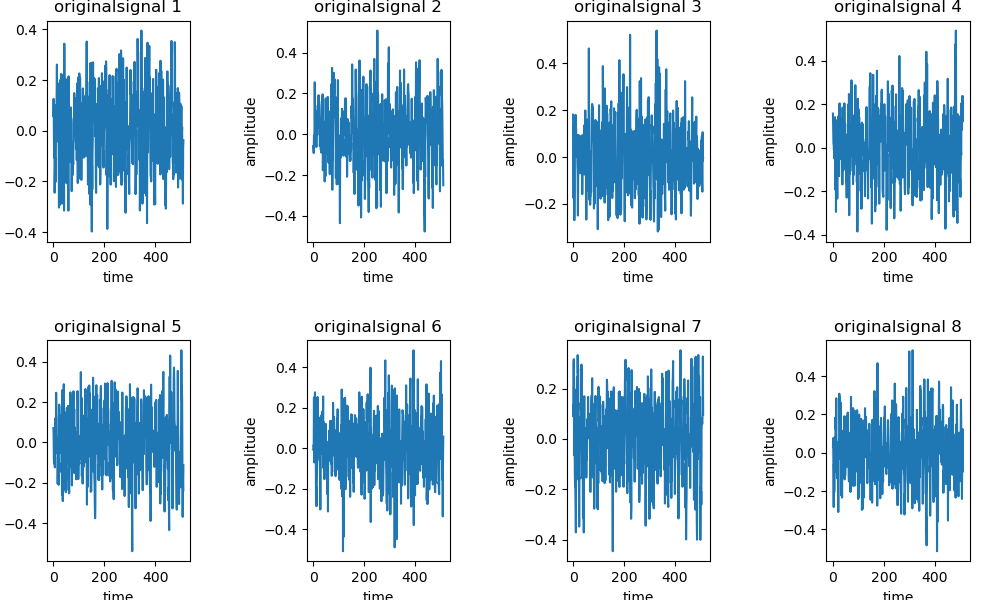
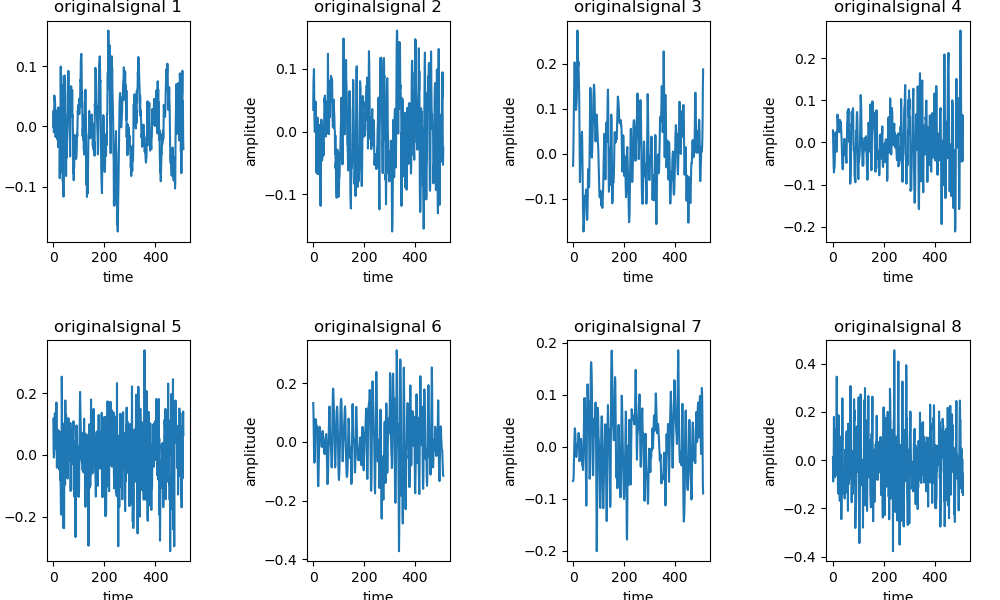
调整数据集,重新训练

diff --git a/train.py b/train.py
@@ -22,7 +22,7 @@ from utils.dataset import get_shape, get_signal_dataloader, tensor2signal, creat
 from utils.early_stop import EarlyStopping
 from utils.fft_plot import FFTPlot
 
-batch_size = 2048  # 最大化利用显存
+batch_size = 512  # 最大化利用显存
 _exp_name = "sample"
 
 
@@ -441,12 +441,13 @@ def prepare_data(data_path='./data',
         dataset = Signals(data_path, slice_length=slice_length, slice_type=slice_type,
                           add_noise=add_noise, windows_rate=windows_ratio, delete_labels=delete_labels)
         task_type = 'denoising'
-        # 取出前8个信号，绘制信号的图
+        # 随机取出8个信号，绘制信号的图
+        indexes = np.random.choice(len(dataset.data), 8, replace=False)
         fig, ax = plt.subplots(4, 4, figsize=(10, 10))
         fig.tight_layout(h_pad=5, w_pad=5)
         for i in range(8):
             plt.subplot(4, 4, i + 1)
-            plt.plot(dataset.data[i][0])
+            plt.plot(dataset.data[indexes[i]][0])
             plt.title(f'signal {i + 1}')
             plt.xlabel('time')
             plt.ylabel('amplitude')
@@ -474,7 +475,7 @@ def prepare_data(data_path='./data',
         # 绘制8个处理后的信号
         for i in range(8, 16):
             plt.subplot(4, 4, i + 1)
-            plt.plot(dataset.data[i][0])
+            plt.plot(dataset.data[indexes[i - 8]][0])
             plt.title(task_type + f'signal {i - 7}')
             plt.xlabel('time')
             plt.ylabel('amplitude')
@@ -487,11 +488,12 @@ def prepare_data(data_path='./data',
                           add_noise=add_noise, windows_rate=windows_ratio, delete_labels=delete_labels)
         task_type = 'original' if not add_noise else 'noisy'
         # 取出前8个信号，绘制信号的图
+        indexes = np.random.choice(len(dataset.data), 8, replace=False)
         fig, ax = plt.subplots(2, 4, figsize=(10, 6))
         fig.tight_layout(h_pad=5, w_pad=5)
         for i in range(8):
             plt.subplot(2, 4, i + 1)
-            plt.plot(dataset.data[i][0])
+            plt.plot(dataset.data[indexes[i]][0])
             plt.title(task_type + f'signal {i + 1}')
             plt.xlabel('time')
             plt.ylabel('amplitude')
@@ -519,7 +521,7 @@ def validate_classification(writer, device, model, config_id, log_dir, val_datal
         return acc.item()
 
 
-def train_classification(log_dirs, ds_config, add_noise=False, denoising_properties=None):
+def train_classification(log_dirs, ds_config, add_noise=False, denoising_properties=None, batch_size=512):
     """
     训练分类模型, 可以选择是否添加噪声，以及是否去噪
     :param log_dirs: 保存模型的路径，tensorboard的log路径，
@@ -536,6 +538,12 @@ def train_classification(log_dirs, ds_config, add_noise=False, denoising_propert
     target = dataset.target
     seed = 66
     torch.manual_seed(seed)
+
+    # 随机选择2000个样本
+    # np.random.seed(seed)
+    # idxes = np.random.choice(len(data), 5 * 1024, replace=False)
+    # data, target = data[idxes], target[idxes]
+
     # 为了保证每次的结果一致，设置随机种子,打乱数据
     np.random.seed(seed)
     np.random.shuffle(data)
@@ -544,9 +552,12 @@ def train_classification(log_dirs, ds_config, add_noise=False, denoising_propert
     # 准备数据，选择不同的模型，以及不同的log路径，训练分类模型
     train_data, test_data, train_labels, test_labels = train_test_split(data, target, test_size=0.4)
     test_data, val_data, test_labels, val_labels = train_test_split(test_data, test_labels, test_size=0.5)
-    train_dataloader = DataLoader(TensorDataset(tensor(train_data), tensor(train_labels)), batch_size=512, shuffle=True)
-    test_dataloader = DataLoader(TensorDataset(tensor(test_data), tensor(test_labels)), batch_size=512, shuffle=False)
-    val_dataloader = DataLoader(TensorDataset(tensor(val_data), tensor(val_labels)), batch_size=512, shuffle=False)
+    train_dataloader = DataLoader(TensorDataset(tensor(train_data), tensor(train_labels)),
+                                  batch_size=batch_size, shuffle=True)
+    test_dataloader = DataLoader(TensorDataset(tensor(test_data), tensor(test_labels)),
+                                 batch_size=batch_size, shuffle=False)
+    val_dataloader = DataLoader(TensorDataset(tensor(val_data), tensor(val_labels)),
+                                batch_size=batch_size, shuffle=False)
     config_ids = [17, 16, 15, 14]
     model_name = ['classify_cnn1d_mini_best300_512batch_' + task_type + '.ckpt',
                   'classify_cnn1d_small_best300_512batch_' + task_type + '.ckpt',
@@ -572,6 +583,7 @@ def train_sd_ddim():
 
 
 if __name__ == '__main__':
+    batch_size = 512
     d_p = {
         'n_steps': 2000,  # ddpm的步数
         'config_id': 11,  # 11, 12, 13, 分别对应大中小
@@ -604,21 +616,21 @@ if __name__ == '__main__':
     dataset_config = {
         'data_path': './data',
         'slice_length': 512,
-        'slice_type': 'cut',
-        'windows_ratio': 0.5,
+        'slice_type': 'window',  # 'cut','window'
+        'windows_ratio': 0.1,
         'delete_labels': del_labels
     }
     train_classification(
         log_dirs=['./run/0513mini_n', './run/0513small_n', './run/0513medium_n', './run/0513big_n'],
-        ds_config=dataset_config, add_noise=True
+        ds_config=dataset_config, add_noise=True, batch_size=batch_size
     )  # 训练分类模型， 输入为带噪声的信号
 
     train_classification(
         log_dirs=['./run/0513mini_o', './run/0513small_o', './run/0513medium_o', './run/0513big_o'],
-        ds_config=dataset_config, add_noise=False
+        ds_config=dataset_config, add_noise=False, batch_size=batch_size
     )  # 训练分类模型， 输入为原始信号
 
     train_classification(
         log_dirs=['./run/0513mini_dn', './run/0513small_dn', './run/0513medium_dn', './run/0513big_dn']
-        , denoising_properties=d_p, ds_config=dataset_config
+        , denoising_properties=d_p, ds_config=dataset_config, batch_size=batch_size
     )  # 训练分类模型， 输入为带噪声的信号经过sd_ddim去噪后的信号

diff --git a/model/model_configs.py b/model/model_configs.py
@@ -87,13 +87,13 @@ bi_lstm_big_cfg = {
 }
 convnet1d_big_classify_cfg = {
     'type': 'ConvNet1DClassify',
-    'intermediate_channels': [20, 40, 80, 160, 160, 80, 40, 20],
+    'intermediate_channels': [20, 40, 80, 40, 20],
     'out_dim': 5,
 }
 
 convnet1d_medium_classify_cfg = {
     'type': 'ConvNet1DClassify',
-    'intermediate_channels': [20, 40, 80, 40, 20],
+    'intermediate_channels': [20, 40, 80, 20],
     'out_dim': 5,
 }
 
@@ -105,7 +105,7 @@ convnet1d_small_classify_cfg = {
 
 convnet1d_mini_classify_cfg = {
     'type': 'ConvNet1DClassify',
-    'intermediate_channels': [5, 10, 5],
+    'intermediate_channels': [10, 10],
     'out_dim': 5,
 }
 

diff --git a/utils/dataset.py b/utils/dataset.py
@@ -351,7 +351,7 @@ def generate_mixed_signal_data(signals: np.ndarray):
         signal_power = np.mean(signal ** 2)
 
         # 给定信噪比，计算噪声功率
-        snr = np.random.randint(-20, -10)  # 信噪比在-20到-10之间随机取值
+        snr = np.random.randint(-30, -10)  # 信噪比在-20到-10之间随机取值
         snr_linear = 10 ** (snr / 10)
         noise_power = signal_power / snr_linear
 
